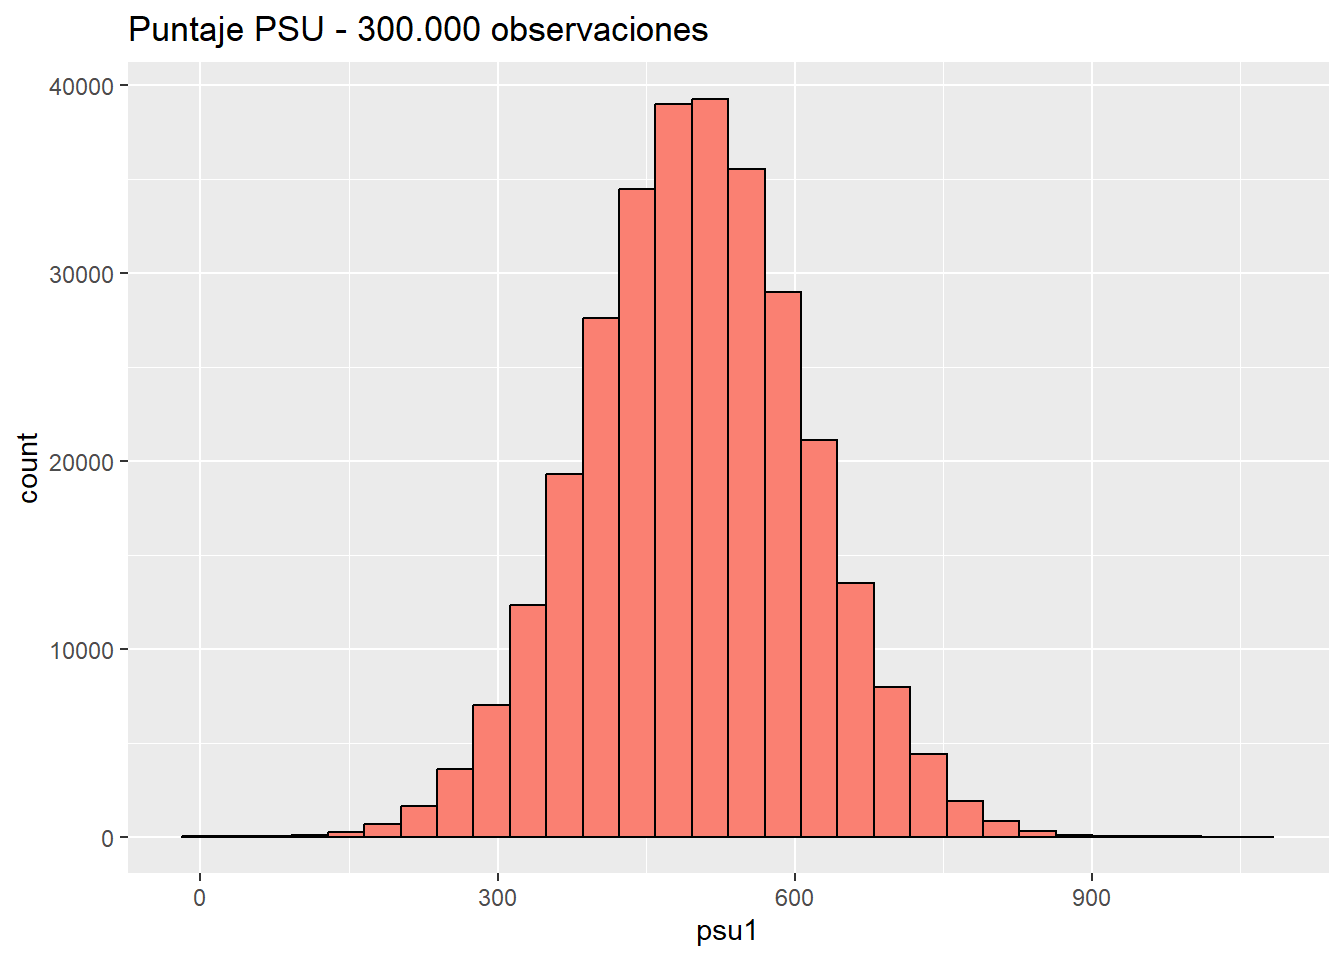
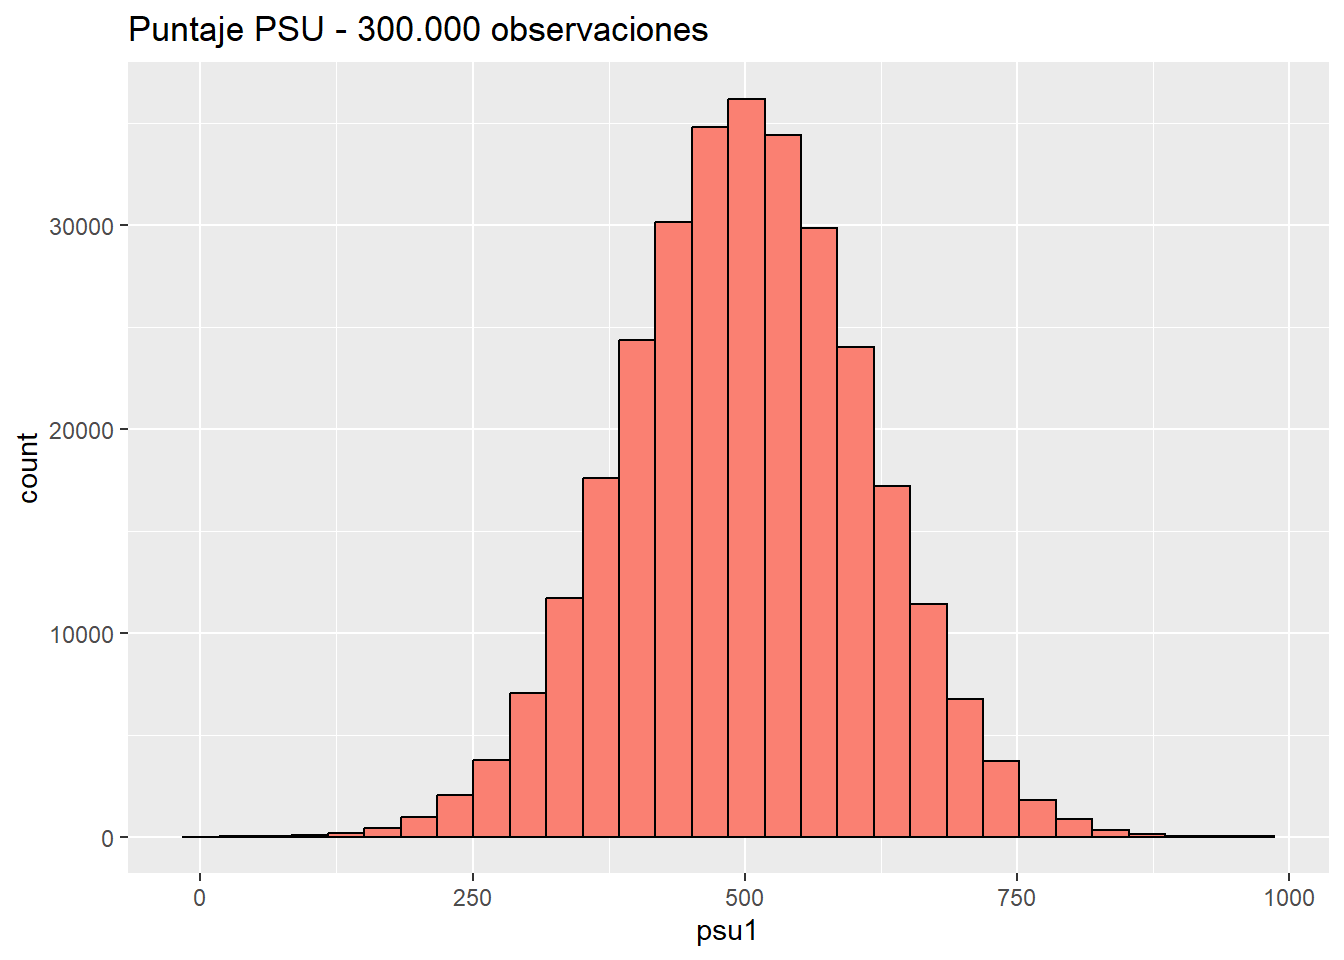
render website

diff --git a/docs/assignment/05-practico.html b/docs/assignment/05-practico.html
@@ -393,7 +393,7 @@ window.Quarto = {
 </section>
 <section id="recursos-de-la-práctica" class="level2">
 <h2 class="anchored" data-anchor-id="recursos-de-la-práctica">Recursos de la práctica</h2>
-<p>En esta práctica trabajaremos con la base de datos de la Encuesta de Opinión Pública (CEP) de Diciembre del 2019 realizada por el <a href="https://www.cepchile.cl/">Centro de Estudios Públicos</a>. Esta base la pueden encontrar en el canal de U-Cursos sección Material Docente, o bien, en el siguiente enlace <a href="https://github.com/cursos-metodos-facso/descriptiva/tree/main/data/CEP_dic2019.sav"><i class="fa-solid fa-table" aria-hidden="true"></i> <code>CEP 2019</code></a> podrán descargar el archivo que contiene la base CEP Diciembre 2019.</p>
+<p>En esta práctica trabajaremos con la base de datos de la Encuesta de Opinión Pública (CEP) de Diciembre del 2019 realizada por el <a href="https://www.cepchile.cl/">Centro de Estudios Públicos</a>. Esta base la pueden encontrar en el canal de U-Cursos sección Material Docente, o bien, en el siguiente enlace <a href="https://github.com/cursos-metodos-facso/descriptiva/raw/main/assignment/Input/data/CEP_dic2019.sav"><i class="fa-solid fa-table" aria-hidden="true"></i> <code>CEP 2019</code></a> podrán descargar el archivo que contiene la base CEP Diciembre 2019.</p>
 </section>
 <section id="preparación-de-datos" class="level2">
 <h2 class="anchored" data-anchor-id="preparación-de-datos">Preparación de datos</h2>
@@ -663,8 +663,8 @@ Tip
 <span id="cb21-2"><a href="#cb21-2" aria-hidden="true" tabindex="-1"></a></span>
 <span id="cb21-3"><a href="#cb21-3" aria-hidden="true" tabindex="-1"></a>psych<span class="sc">::</span><span class="fu">describe</span>(psu1)</span></code><button title="Copiar al portapapeles" class="code-copy-button"><i class="bi"></i></button></pre></div>
 <div class="cell-output cell-output-stdout">
-<pre><code>   vars      n mean     sd median trimmed    mad    min     max   range skew
-X1    1 300000  500 110.25  499.9     500 110.36 -13.42 1052.41 1065.83    0
+<pre><code>   vars      n   mean     sd median trimmed    mad  min    max  range  skew
+X1    1 300000 500.24 109.88 500.38  500.33 109.96 7.23 976.71 969.48 -0.01
    kurtosis  se
 X1        0 0.2</code></pre>
 </div>
